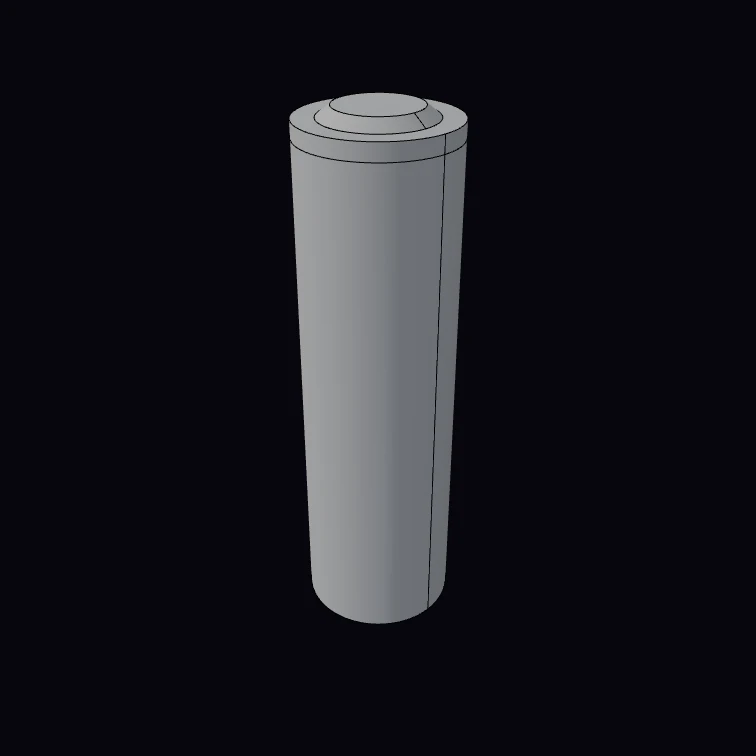
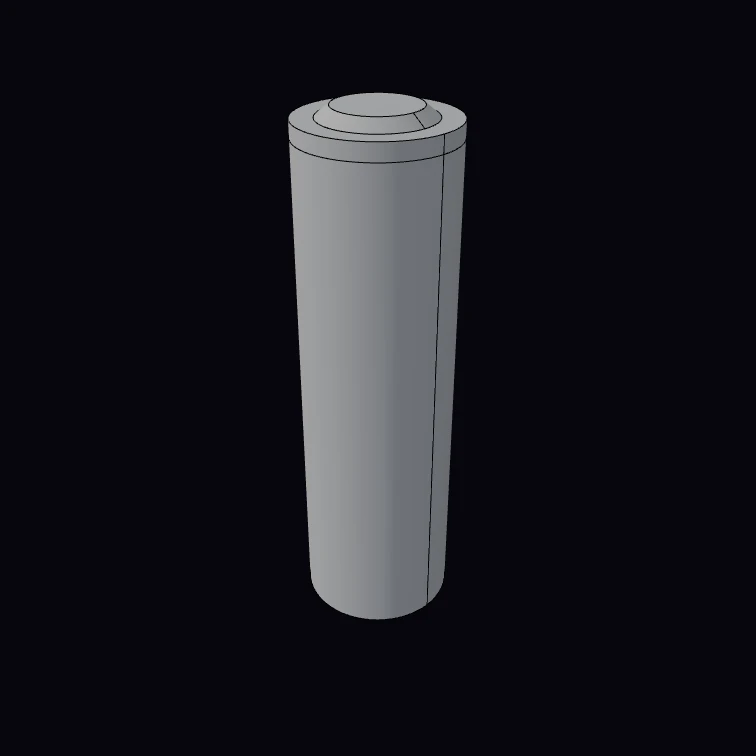
fix(playground): render battery base chamfer + drop d-sub no-op (Greptile)
battery-cell: the bottom-rim chamfer used edgeFinder().inDirection('Z'), which
matches no edge (the rim is a CIRCLE, not a Z-running edge), so the chamfer silently
no-op'd and the promised base bevel never rendered. Select the rim by its radius from
the base centre instead: atDistance(rCan, [0,0,-half]).

d-sub-connector: removed a no-op translate([0,0,0]) per pin and the now-unused
translate import. Type guard 52/52, eval+mesh 412/412. Addresses the Greptile findings on #1471.

diff --git a/apps/playground/src/lib/examples/mechanical.ts b/apps/playground/src/lib/examples/mechanical.ts
@@ -3086,7 +3086,6 @@ export default rotaryPot();`,
   fuse,
   polygon,
   sphere,
-  translate,
   unwrap,
   validSolid,
 } from 'brepjs/quick';
@@ -3191,7 +3190,7 @@ function dSubConnector({
       const x = (i - (count - 1) / 2) * colPitch;
       const shaft = cylinder(pinR, pinH, { at: [x, y, 0] });
       const tip = sphere(pinR, { at: [x, y, pinH] });
-      pins.push(translate(unwrap(fuse(shaft, tip)), [0, 0, 0]));
+      pins.push(unwrap(fuse(shaft, tip)));
       placed++;
     }
   }
@@ -3507,8 +3506,10 @@ function batteryCell(
   });
   body = unwrap(fuse(body, negPlate));
 
-  // Roll the bottom rim of the can: chamfer the lowest Z edge of the body.
-  const bottomEdges = edgeFinder().inDirection('Z').atDistance(0, [0, 0, -half]).findAll(body);
+  // Roll the bottom rim of the can: chamfer the circular edge at radius rCan in
+  // the z = -half plane (the can-wall-to-base edge). It is a CIRCLE, not a
+  // Z-running edge, so select it by its distance from the base-centre point.
+  const bottomEdges = edgeFinder().atDistance(rCan, [0, 0, -half]).findAll(body);
   if (bottomEdges.length > 0) {
     const valid = unwrap(validSolid(body));
     body = unwrap(chamfer(valid, bottomEdges, 0.6));
